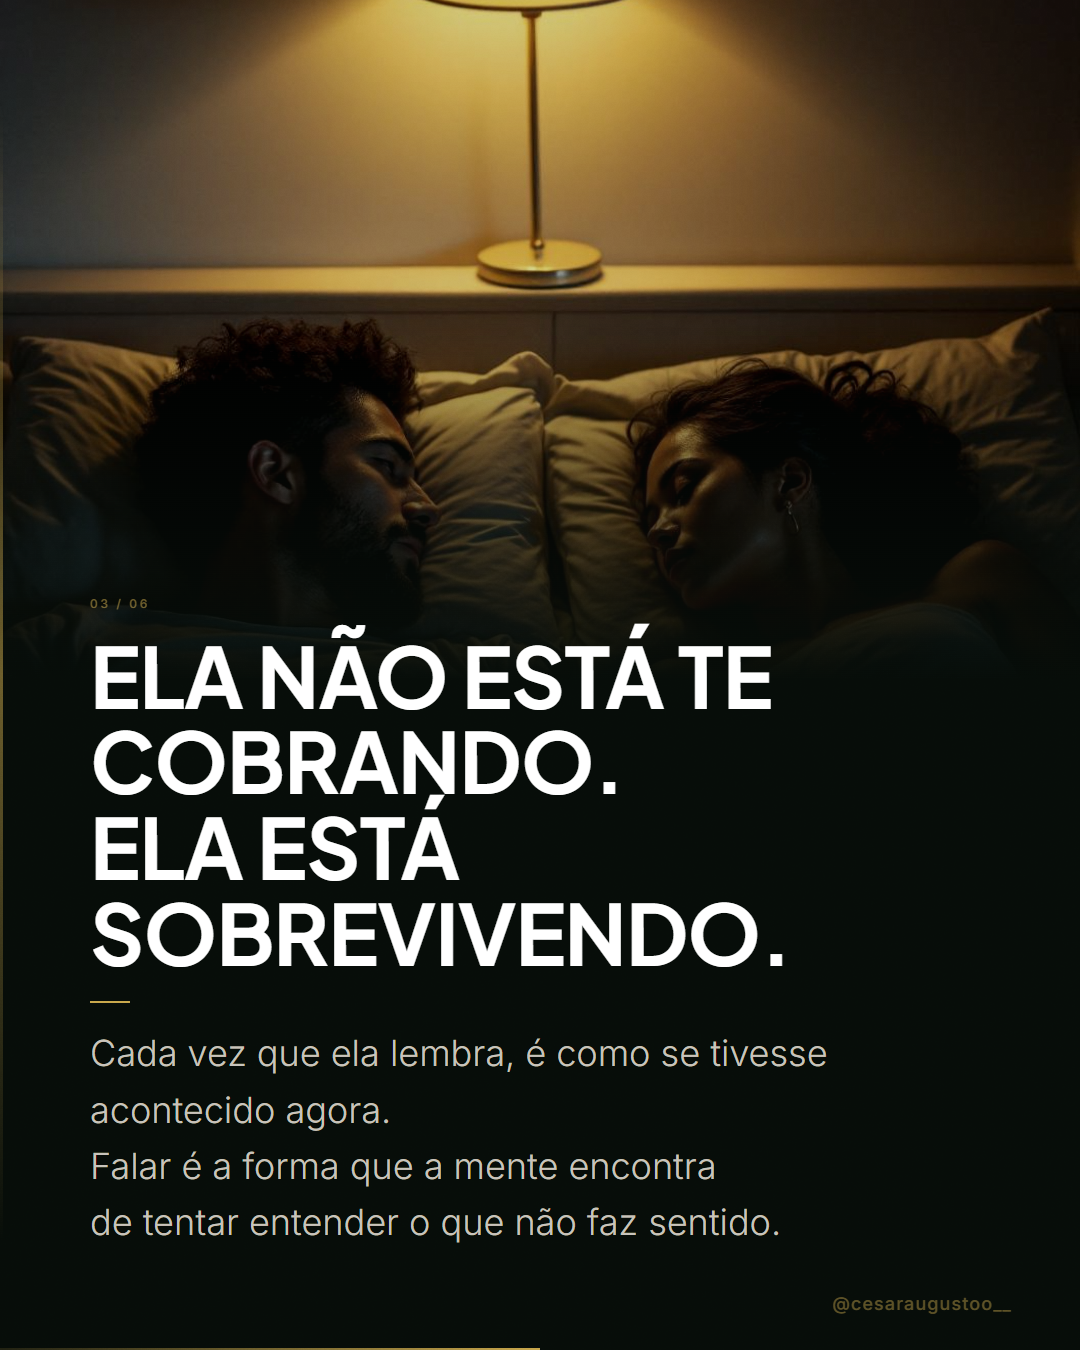
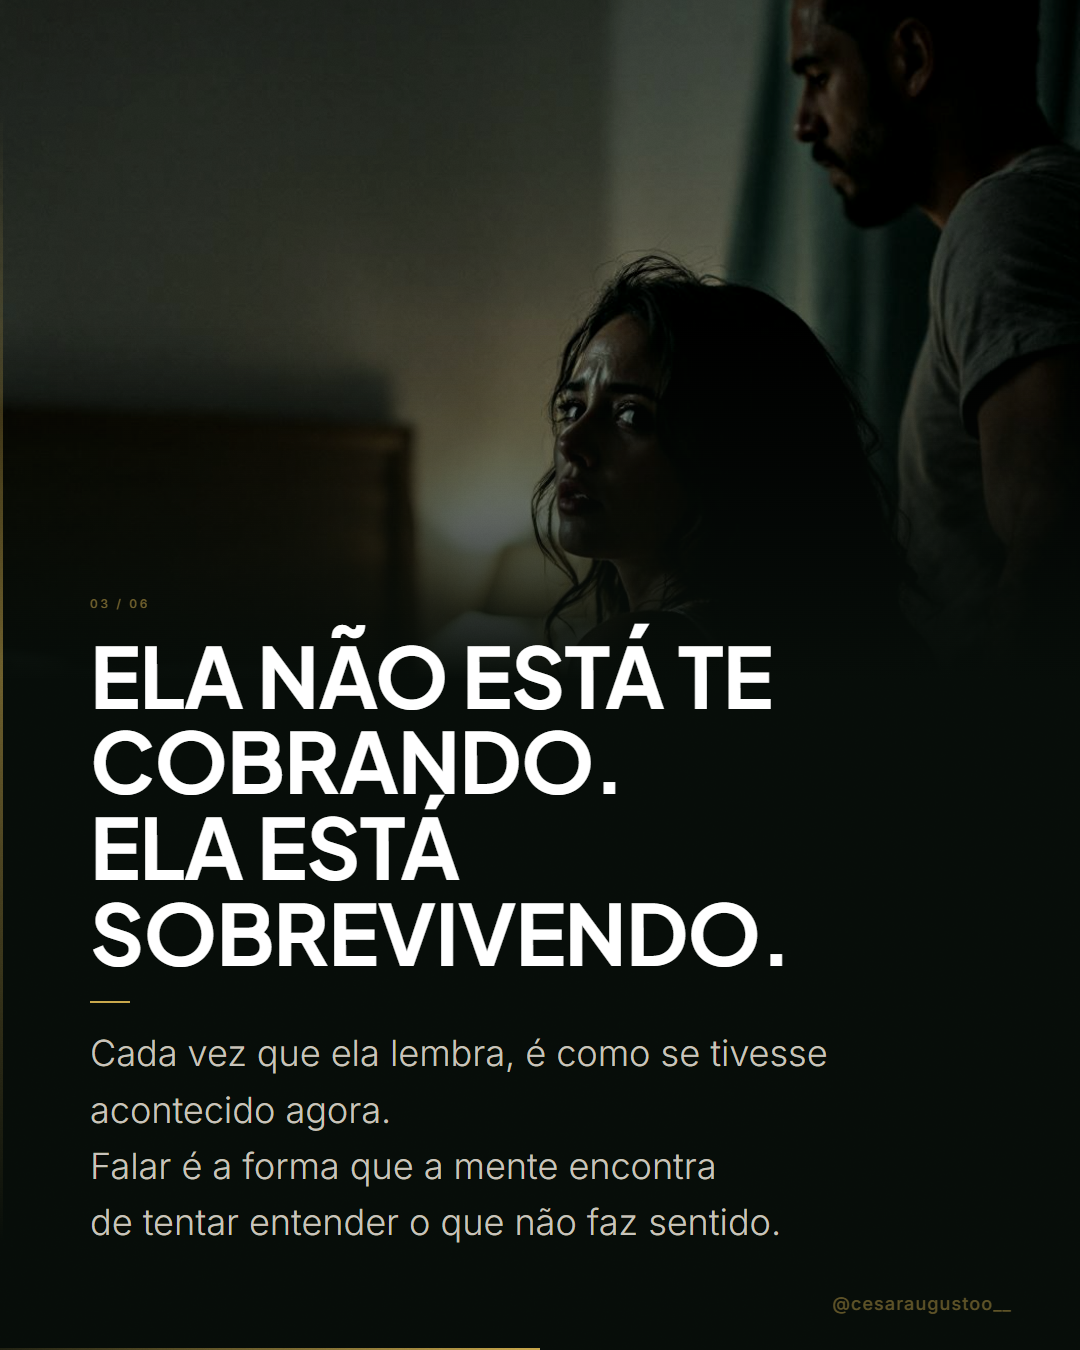
feat: carrosseis esposa-espelho-v1, medo-de-amar-v1 e ouvir-traicao-v4 com novas imagens

Changed region(s): [[0.0, 0.0, 1.0, 0.4667], [0.8861, 0.4044, 0.9167, 0.4356]]

diff --git a/carrosseis/index.html b/carrosseis/index.html
@@ -31,6 +31,67 @@
 <h1>@cesaraugustoo__</h1>
 <p class="sub">Slides + legenda prontos para postar</p>
 
+<div class="carrossel" id="medo-de-amar-v1">
+  <div class="carrossel-header">
+    <h2>🆕 Depois da Traição, Ela Está com Medo de Te Amar — 6 slides</h2>
+    <button class="btn-todos" onclick="baixarTodos('medo-de-amar-v1', 6)">Baixar todos</button>
+  </div>
+  <div class="grid">
+    <div class="card"><span class="num">01</span><img src="medo-de-amar-v1/slide-01.png" loading="lazy"><a class="btn-dl" href="medo-de-amar-v1/slide-01.png" download>Baixar</a></div>
+    <div class="card"><span class="num">02</span><img src="medo-de-amar-v1/slide-02.png" loading="lazy"><a class="btn-dl" href="medo-de-amar-v1/slide-02.png" download>Baixar</a></div>
+    <div class="card"><span class="num">03</span><img src="medo-de-amar-v1/slide-03.png" loading="lazy"><a class="btn-dl" href="medo-de-amar-v1/slide-03.png" download>Baixar</a></div>
+    <div class="card"><span class="num">04</span><img src="medo-de-amar-v1/slide-04.png" loading="lazy"><a class="btn-dl" href="medo-de-amar-v1/slide-04.png" download>Baixar</a></div>
+    <div class="card"><span class="num">05</span><img src="medo-de-amar-v1/slide-05.png" loading="lazy"><a class="btn-dl" href="medo-de-amar-v1/slide-05.png" download>Baixar</a></div>
+    <div class="card"><span class="num">06</span><img src="medo-de-amar-v1/slide-06.png" loading="lazy"><a class="btn-dl" href="medo-de-amar-v1/slide-06.png" download>Baixar</a></div>
+  </div>
+  <div class="legenda-box">
+    <div class="legenda-label">Legenda do post</div>
+    <textarea class="legenda-text" id="leg-medo-amar" readonly>Depois da traição, ela não está com raiva.
+
+Ela está com medo de te amar de novo.
+
+Salva e manda pra ela sem falar nada.
+
+Comente RM que eu te mando o link do curso. 👇
+
+#casamento #traicao #reconstrucao #homem #relacionamento</textarea>
+    <button class="btn-copy" onclick="copiarLegenda('leg-medo-amar', this)">COPIAR LEGENDA</button>
+  </div>
+</div>
+
+<div class="carrossel" id="esposa-espelho-v1">
+  <div class="carrossel-header">
+    <h2>🆕 Sua Esposa não é sua Inimiga. Ela é o seu Espelho. — 11 slides</h2>
+    <button class="btn-todos" onclick="baixarTodos('esposa-espelho-v1', 11)">Baixar todos</button>
+  </div>
+  <div class="grid">
+    <div class="card"><span class="num">01</span><img src="esposa-espelho-v1/slide-01.png" loading="lazy"><a class="btn-dl" href="esposa-espelho-v1/slide-01.png" download>Baixar</a></div>
+    <div class="card"><span class="num">02</span><img src="esposa-espelho-v1/slide-02.png" loading="lazy"><a class="btn-dl" href="esposa-espelho-v1/slide-02.png" download>Baixar</a></div>
+    <div class="card"><span class="num">03</span><img src="esposa-espelho-v1/slide-03.png" loading="lazy"><a class="btn-dl" href="esposa-espelho-v1/slide-03.png" download>Baixar</a></div>
+    <div class="card"><span class="num">04</span><img src="esposa-espelho-v1/slide-04.png" loading="lazy"><a class="btn-dl" href="esposa-espelho-v1/slide-04.png" download>Baixar</a></div>
+    <div class="card"><span class="num">05</span><img src="esposa-espelho-v1/slide-05.png" loading="lazy"><a class="btn-dl" href="esposa-espelho-v1/slide-05.png" download>Baixar</a></div>
+    <div class="card"><span class="num">06</span><img src="esposa-espelho-v1/slide-06.png" loading="lazy"><a class="btn-dl" href="esposa-espelho-v1/slide-06.png" download>Baixar</a></div>
+    <div class="card"><span class="num">07</span><img src="esposa-espelho-v1/slide-07.png" loading="lazy"><a class="btn-dl" href="esposa-espelho-v1/slide-07.png" download>Baixar</a></div>
+    <div class="card"><span class="num">08</span><img src="esposa-espelho-v1/slide-08.png" loading="lazy"><a class="btn-dl" href="esposa-espelho-v1/slide-08.png" download>Baixar</a></div>
+    <div class="card"><span class="num">09</span><img src="esposa-espelho-v1/slide-09.png" loading="lazy"><a class="btn-dl" href="esposa-espelho-v1/slide-09.png" download>Baixar</a></div>
+    <div class="card"><span class="num">10</span><img src="esposa-espelho-v1/slide-10.png" loading="lazy"><a class="btn-dl" href="esposa-espelho-v1/slide-10.png" download>Baixar</a></div>
+    <div class="card"><span class="num">11</span><img src="esposa-espelho-v1/slide-11.png" loading="lazy"><a class="btn-dl" href="esposa-espelho-v1/slide-11.png" download>Baixar</a></div>
+  </div>
+  <div class="legenda-box">
+    <div class="legenda-label">Legenda do post</div>
+    <textarea class="legenda-text" id="leg-espelho" readonly>Sua esposa não é sua inimiga.
+
+Ela é o espelho daquilo que você ainda não resolveu.
+
+Salva esse carrossel e manda pra quem precisa ver.
+
+Comente RM que eu te mando o link do curso. 👇
+
+#casamento #traicao #reconstrucao #homem #relacionamento #psicanalise</textarea>
+    <button class="btn-copy" onclick="copiarLegenda('leg-espelho', this)">COPIAR LEGENDA</button>
+  </div>
+</div>
+
 <div class="carrossel" id="ouvir-traicao-v4">
   <div class="carrossel-header">
     <h2>🆕 Até Quando Tenho que Ouvir Minha Esposa Falar da Minha Traição? — 6 slides</h2>
